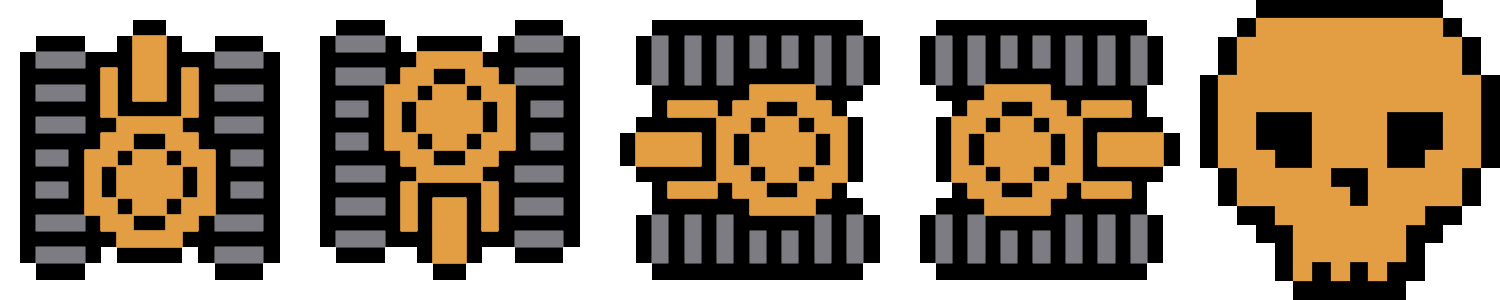
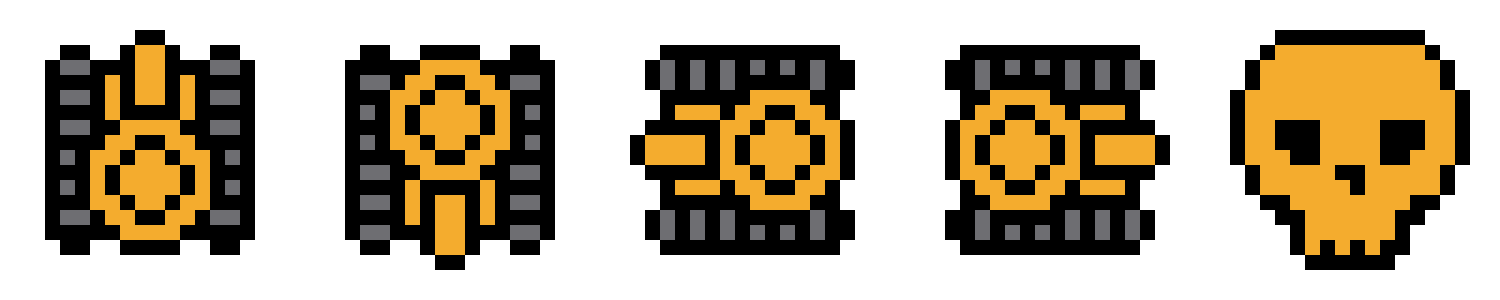
Praprogrammering med Endre, Jakob, August. Changed player texture to be smaller

diff --git a/src/main/java/inf112/skeleton/app/objects/Actors/SimpleRobot.java b/src/main/java/inf112/skeleton/app/objects/Actors/SimpleRobot.java
@@ -15,7 +15,6 @@ public abstract class SimpleRobot extends SimpleObject implements IActor {
 
     private Direction lookDirection;
     private ProgramSheet programSheet;
-    //private final TiledMapTileLayer.Cell playerCell;
     private final TiledMapTileLayer.Cell playerCellDead;
     private TiledMapTileLayer.Cell playerCellWon;
 
@@ -26,15 +25,13 @@ public abstract class SimpleRobot extends SimpleObject implements IActor {
         this.lookDirection = Direction.NORTH;
         this.programSheet = new ProgramSheet();
 
-        //this.playerCell = new TiledMapTileLayer.Cell().setTile(new StaticTiledMapTile(texture[0][0]));
         this.playerCellDead = new TiledMapTileLayer.Cell().setTile(new StaticTiledMapTile(texture[0][4]));
         this.playerCellWon = new TiledMapTileLayer.Cell().setTile(new StaticTiledMapTile(texture[0][4]));
-
+        
         this.DirectionTextureNORTH = new TiledMapTileLayer.Cell().setTile(new StaticTiledMapTile(texture[0][0]));
         this.DirectionTextureSOUTH = new TiledMapTileLayer.Cell().setTile(new StaticTiledMapTile(texture[0][1]));
         this.DirectionTextureWEST = new TiledMapTileLayer.Cell().setTile(new StaticTiledMapTile(texture[0][2]));
         this.DirectionTextureEAST = new TiledMapTileLayer.Cell().setTile(new StaticTiledMapTile(texture[0][3]));
-
     }
 
     /**
